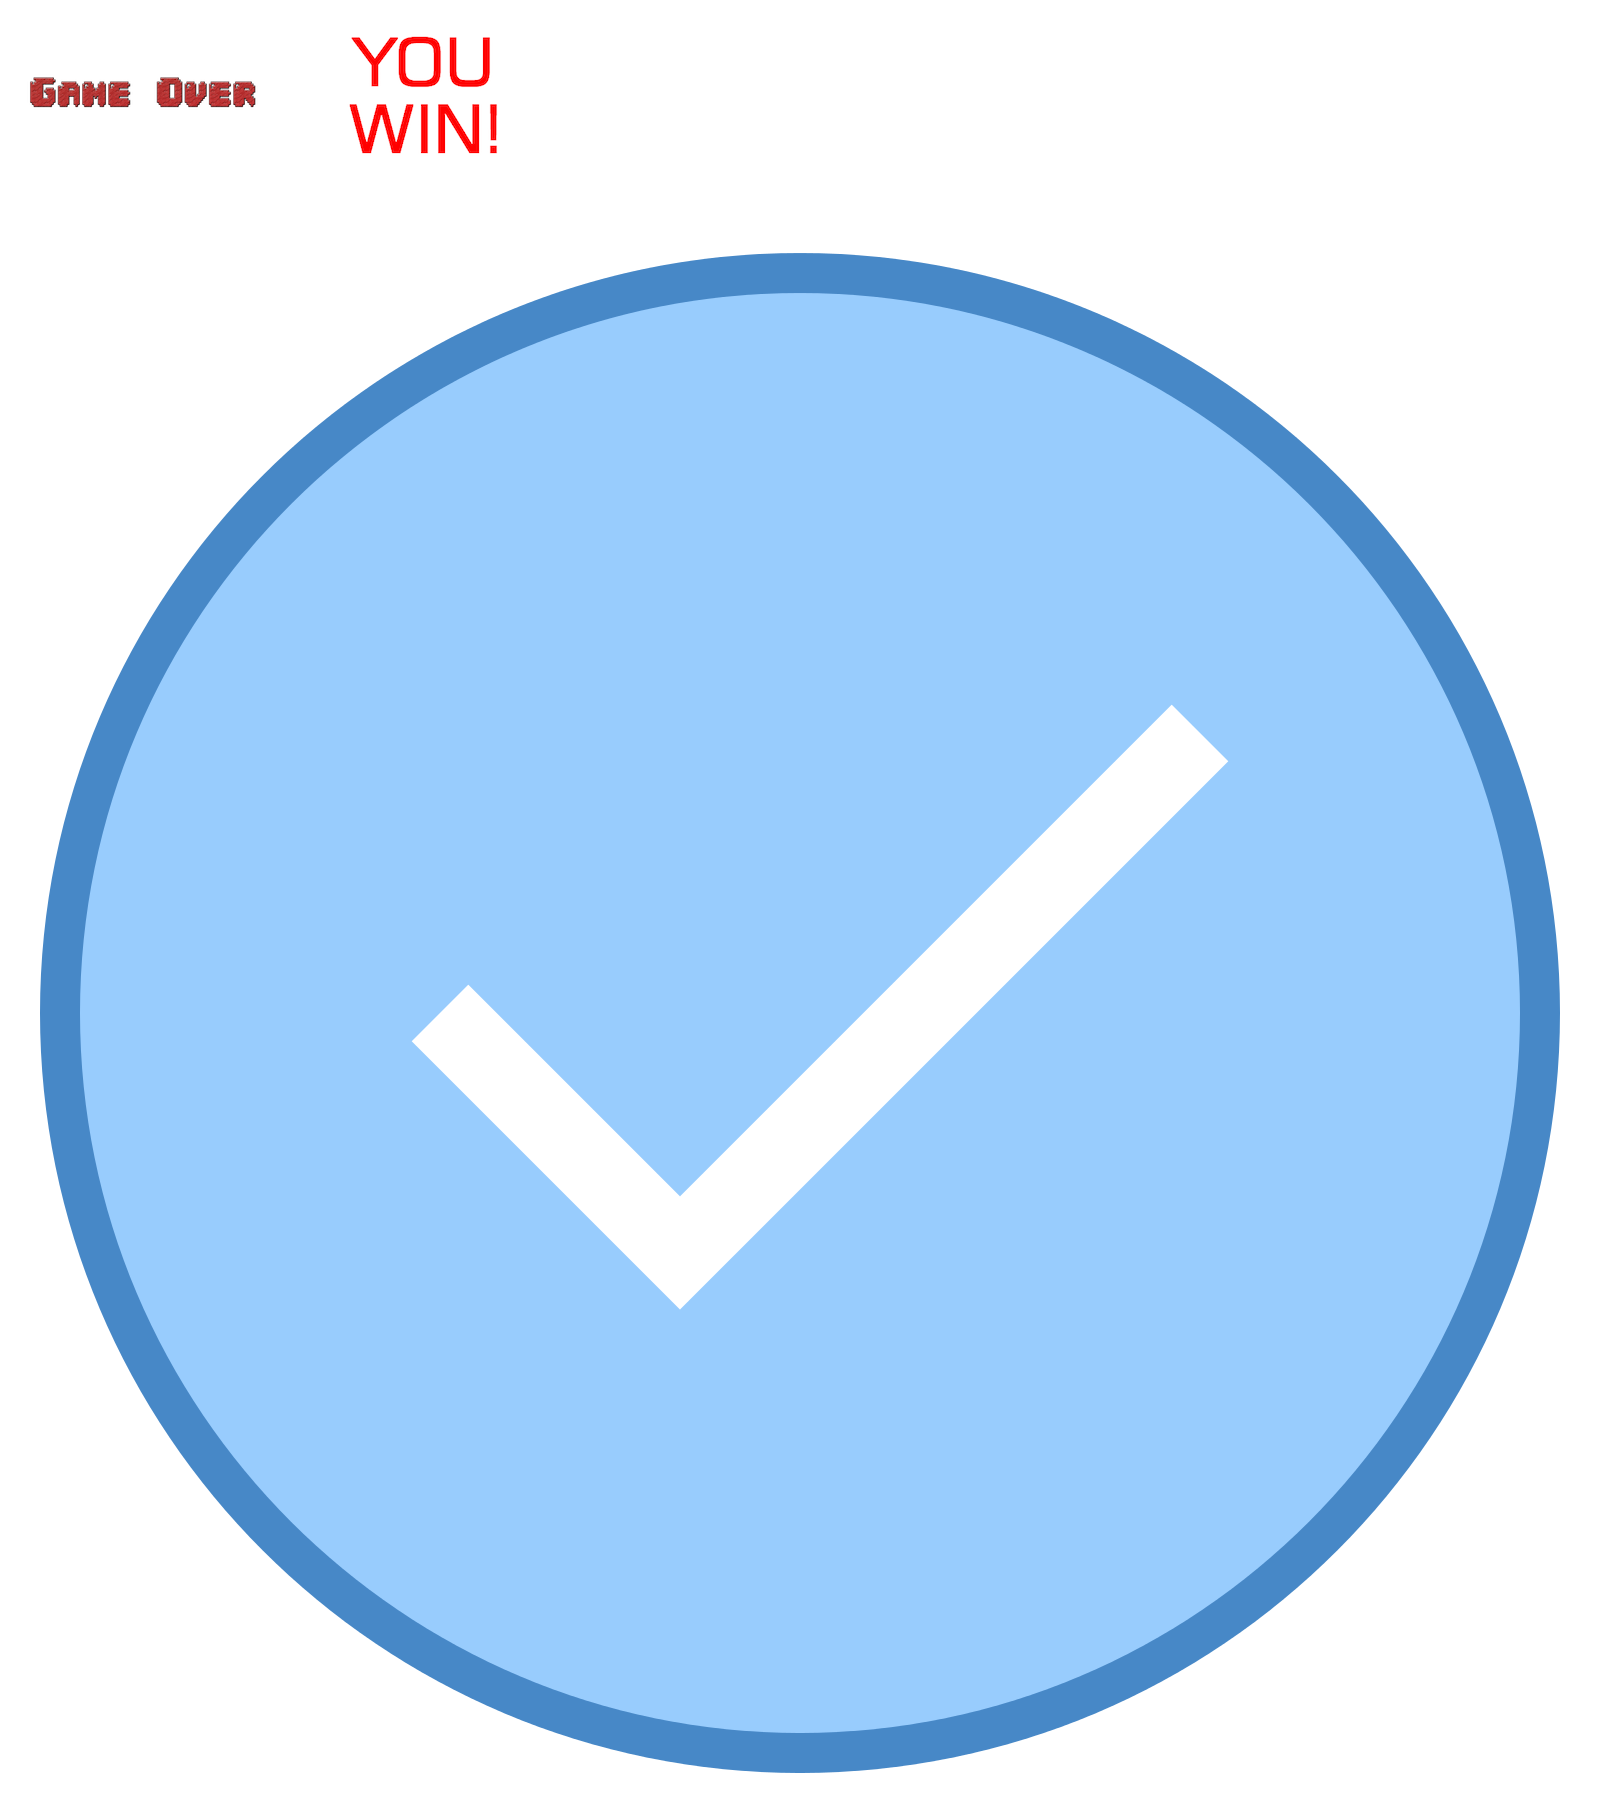
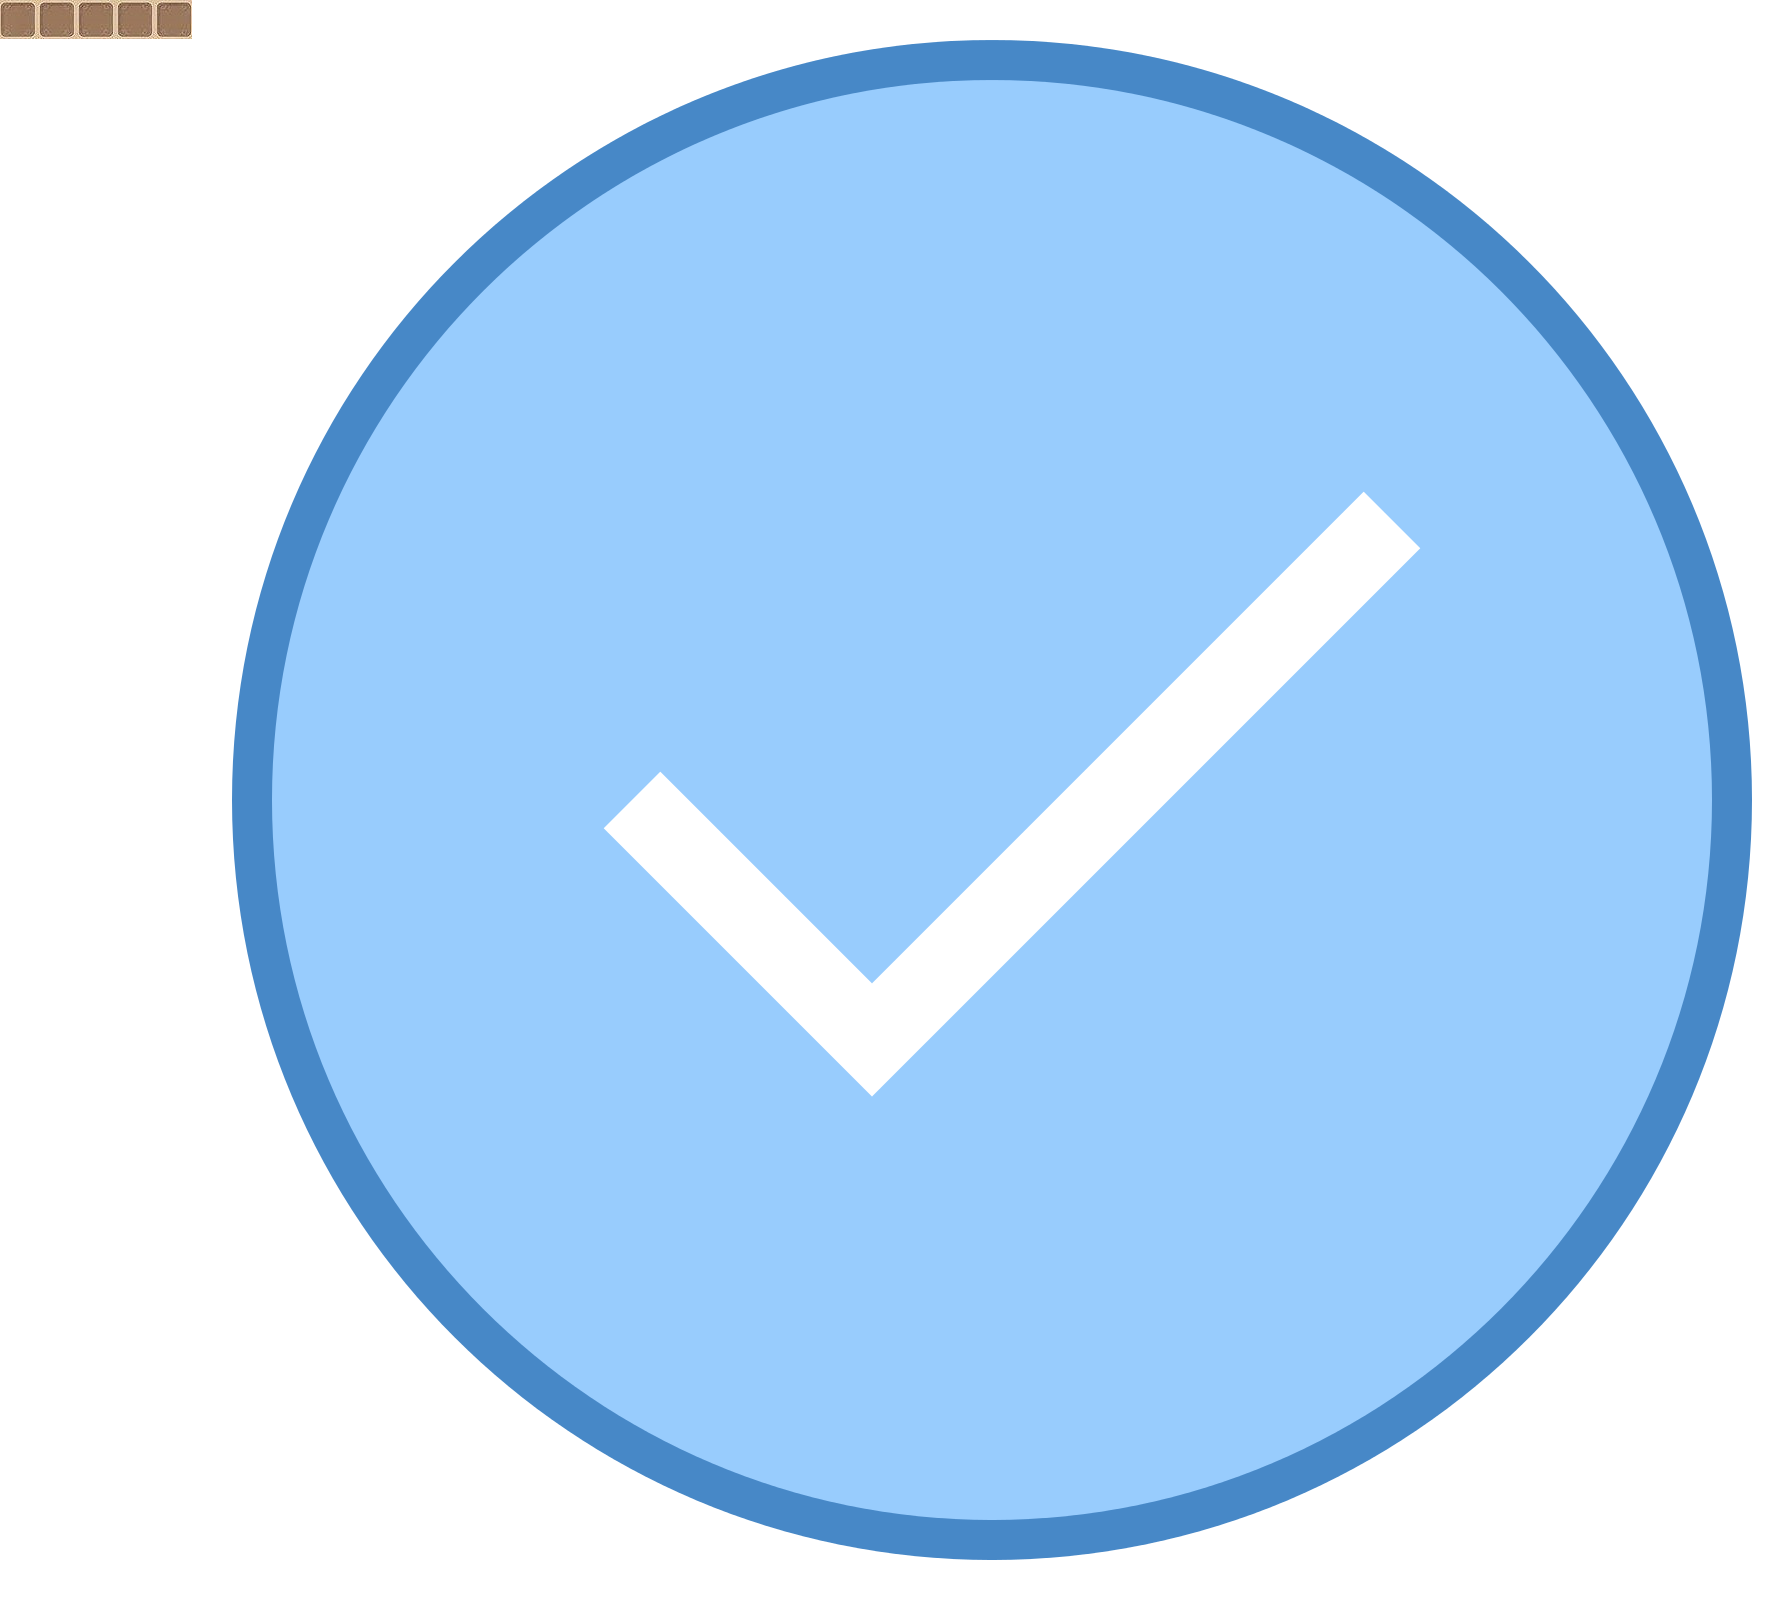
#169 Add inventory bar.

diff --git a/react-frontend/src/pages/Gaming/GamePanel/utils/pixi.js b/react-frontend/src/pages/Gaming/GamePanel/utils/pixi.js
@@ -31,7 +31,8 @@ export default class PixiComponent {
     this.col = mapResource['height'];
 
     this.width = width;
-    this.height = height;
+    this.height = width;
+    this.invHeight = height - width;
 
     this.FPS = FPS;
     this.timeStatus = 0;
@@ -56,11 +57,22 @@ export default class PixiComponent {
       col,
       FPS,
       width,
-      height
+      height,
+      invHeight
     } = this;
 
     const gameScene = new this.Container();
     this.stage.addChild(gameScene);
+
+    const utilId = this.resources[this.utilJson].textures;
+    const inventory = new Obj(
+      utilId['inventory.jpeg'],
+      width,
+      invHeight,
+      0,
+      height
+    );
+    inventory.addTo(gameScene);
 
     const id = this.resources[this.gpJson].textures;
     const backgroundArray = this.mapId;

diff --git a/react-frontend/src/pages/Gaming/GamePanel/utils/misc.js b/react-frontend/src/pages/Gaming/GamePanel/utils/misc.js
@@ -10,7 +10,7 @@ export function convertY(x, height, col) {
 
 export function canvasSetup() {
   this.width = this.self.parentNode.clientWidth;
-  this.aspectRatio = 1;
+  this.aspectRatio = 1.2;
   this.height = this.width * this.aspectRatio;
   this.FPS = 7;
 
